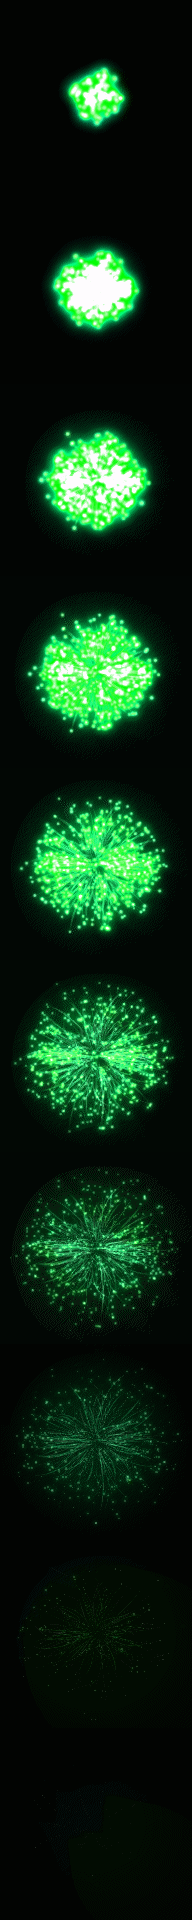
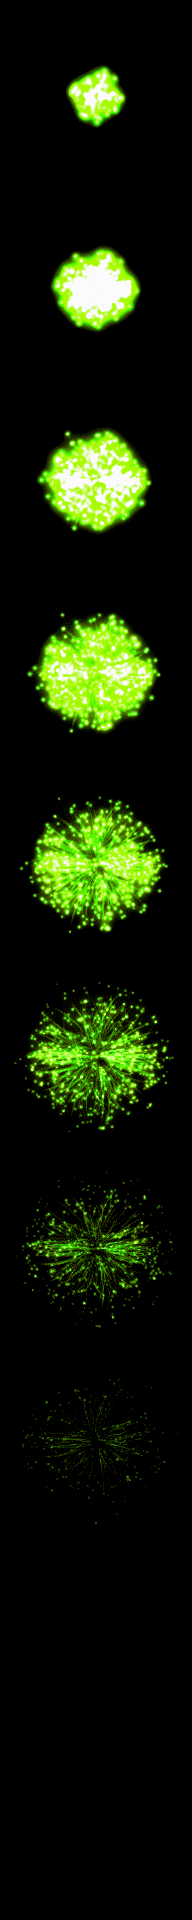
forgor

diff --git a/Projectiles/IgniterEx/IgniterStart.cs b/Projectiles/IgniterEx/IgniterStart.cs
@@ -412,13 +412,13 @@ namespace Stellamod.Projectiles.IgniterEx
 
 					Projectile.timeLeft = 250;
 					Timer++;
-					if (Timer == 150)
+					if (Timer == 140)
 					{
 						SoundEngine.PlaySound(new SoundStyle($"Stellamod/Assets/Sounds/Briskfly"));
 
 					}
 
-					if (Timer == 150)
+					if (Timer == 140)
                     {
 						float speedXa = -Projectile.velocity.X * Main.rand.NextFloat(.4f, .7f) + Main.rand.NextFloat(-8f, 8f);
 						float speedYa = -Projectile.velocity.Y * Main.rand.Next(0, 0) * 0.01f + Main.rand.Next(-20, 21) * 0.0f;
@@ -845,8 +845,8 @@ namespace Stellamod.Projectiles.IgniterEx
 
 			if (npc.active && npc.HasBuff<EldritchDust>())
 			{
-
-				SoundEngine.PlaySound(new SoundStyle($"Stellamod/Assets/Sounds/STARGROP"));
+				SoundEngine.PlaySound(new SoundStyle($"Stellamod/Assets/Sounds/SpidrSummon"));
+				
 				for (int d = 0; d < 20; d++)
 				{
 					Vector2 speedea = Main.rand.NextVector2Circular(0.5f, 0.5f);
@@ -875,7 +875,7 @@ namespace Stellamod.Projectiles.IgniterEx
 							npc.SimpleStrikeNPC(Projectile.damage * 32, 1, crit: false, Projectile.knockBack);
 							float speedXab = -Projectile.velocity.X * Main.rand.NextFloat(.4f, .7f) + Main.rand.NextFloat(-8f, 8f);
 							float speedYab = -Projectile.velocity.Y * Main.rand.Next(0, 0) * 0.01f + Main.rand.Next(-20, 21) * 0.0f;
-							Projectile.NewProjectile(Projectile.GetSource_FromThis(), Projectile.position.X + speedXab, Projectile.position.Y + speedYab, speedXab * 0, speedYab * 0, ModContent.ProjectileType<KaBoomShade>(), (int)(Projectile.damage * 1.5), 0f, Projectile.owner, 0f, 0f);
+							Projectile.NewProjectile(Projectile.GetSource_FromThis(), Projectile.position.X + speedXab, Projectile.position.Y + speedYab, speedXab * 0, speedYab * 0, ModContent.ProjectileType<EldritchBoom>(), (int)(Projectile.damage * 1.5), 0f, Projectile.owner, 0f, 0f);
 
 							if (player.GetModPlayer<MyPlayer>().FlamedTomeDusts)
 							{
@@ -934,7 +934,7 @@ namespace Stellamod.Projectiles.IgniterEx
 				for (int d = 0; d < 20; d++)
 				{
 					Vector2 speedea = Main.rand.NextVector2Circular(0.5f, 0.5f);
-					ParticleManager.NewParticle(Projectile.Center, speedea * 4, ParticleManager.NewInstance<ShadeParticle>(), Color.HotPink, Main.rand.NextFloat(0.2f, 0.8f));
+					ParticleManager.NewParticle(Projectile.Center, speedea * 4, ParticleManager.NewInstance<UnderworldParticle2>(), Color.HotPink, Main.rand.NextFloat(0.2f, 0.8f));
 					target.AddBuff(ModContent.BuffType<EXPtime2>(), 1000);
 
 					Projectile.timeLeft = 200;
@@ -959,7 +959,7 @@ namespace Stellamod.Projectiles.IgniterEx
 							npc.SimpleStrikeNPC(Projectile.damage * 29, 1, crit: false, Projectile.knockBack);
 							float speedXab = -Projectile.velocity.X * Main.rand.NextFloat(.4f, .7f) + Main.rand.NextFloat(-8f, 8f);
 							float speedYab = -Projectile.velocity.Y * Main.rand.Next(0, 0) * 0.01f + Main.rand.Next(-20, 21) * 0.0f;
-							Projectile.NewProjectile(Projectile.GetSource_FromThis(), Projectile.position.X + speedXab, Projectile.position.Y + speedYab, speedXab * 0, speedYab * 0, ModContent.ProjectileType<KaBoomShade>(), (int)(Projectile.damage * 1.5), 0f, Projectile.owner, 0f, 0f);
+							Projectile.NewProjectile(Projectile.GetSource_FromThis(), Projectile.position.X + speedXab, Projectile.position.Y + speedYab, speedXab * 0, speedYab * 0, ModContent.ProjectileType<AgreviBoom>(), (int)(Projectile.damage * 1.5), 0f, Projectile.owner, 0f, 0f);
 
 							if (player.GetModPlayer<MyPlayer>().FlamedTomeDusts)
 							{

diff --git a/Projectiles/IgniterExplosions/KaBoomSpirit.cs b/Projectiles/IgniterExplosions/KaBoomSpirit.cs
@@ -19,8 +19,8 @@ namespace Stellamod.Projectiles.IgniterExplosions
 			Projectile.width = 129;
 			Projectile.height = 192;
 			Projectile.penetrate = -1;
-			Projectile.timeLeft = 32;
-			Projectile.scale = 1f;
+			Projectile.timeLeft = 48;
+			Projectile.scale = 2f;
 
 		}
 		public float Timer
@@ -40,7 +40,7 @@ namespace Stellamod.Projectiles.IgniterExplosions
 		public override bool PreAI()
 		{
 			Projectile.tileCollide = false;
-			if (++Projectile.frameCounter >= 2)
+			if (++Projectile.frameCounter >= 3)
 			{
 				Projectile.frameCounter = 0;
 				if (++Projectile.frame >= 16)

diff --git a/Projectiles/Powders/AgreviPowderProj.cs b/Projectiles/Powders/AgreviPowderProj.cs
@@ -31,7 +31,7 @@ namespace Stellamod.Projectiles.Powders
 		{
 
 			Projectile.velocity *= 0.96f;
-			for (int j = 0; j < 10; j++)
+			for (int j = 0; j < 1; j++)
 			{
 				Vector2 speed = Main.rand.NextVector2Circular(0.5f, 0.5f);
 				ParticleManager.NewParticle(Projectile.Center, speed * 4, ParticleManager.NewInstance<UnderworldParticle2>(), Color.RosyBrown, Main.rand.NextFloat(0.2f, 0.8f));
